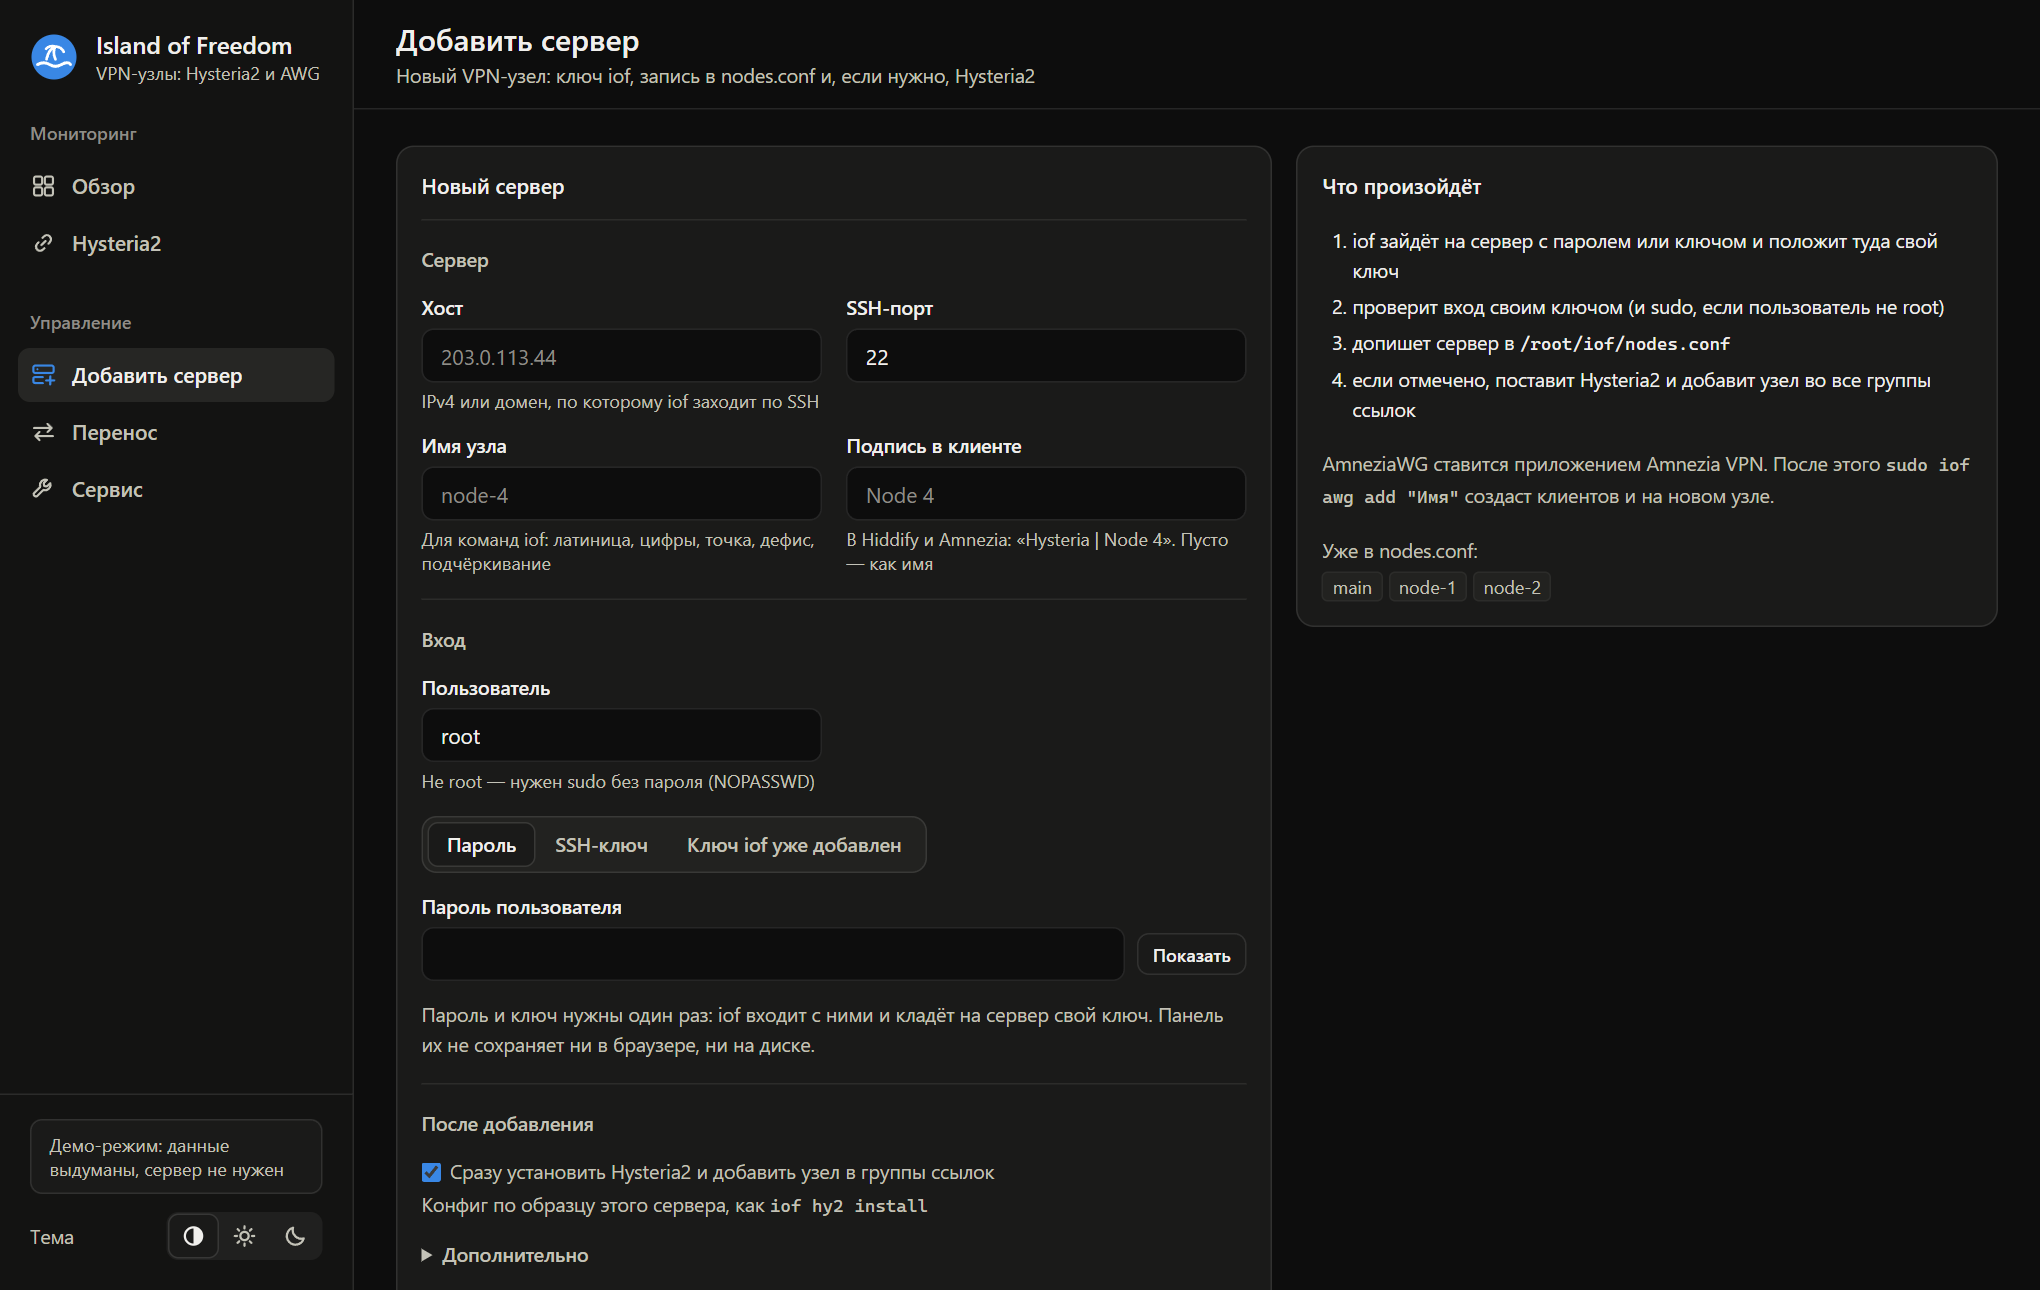
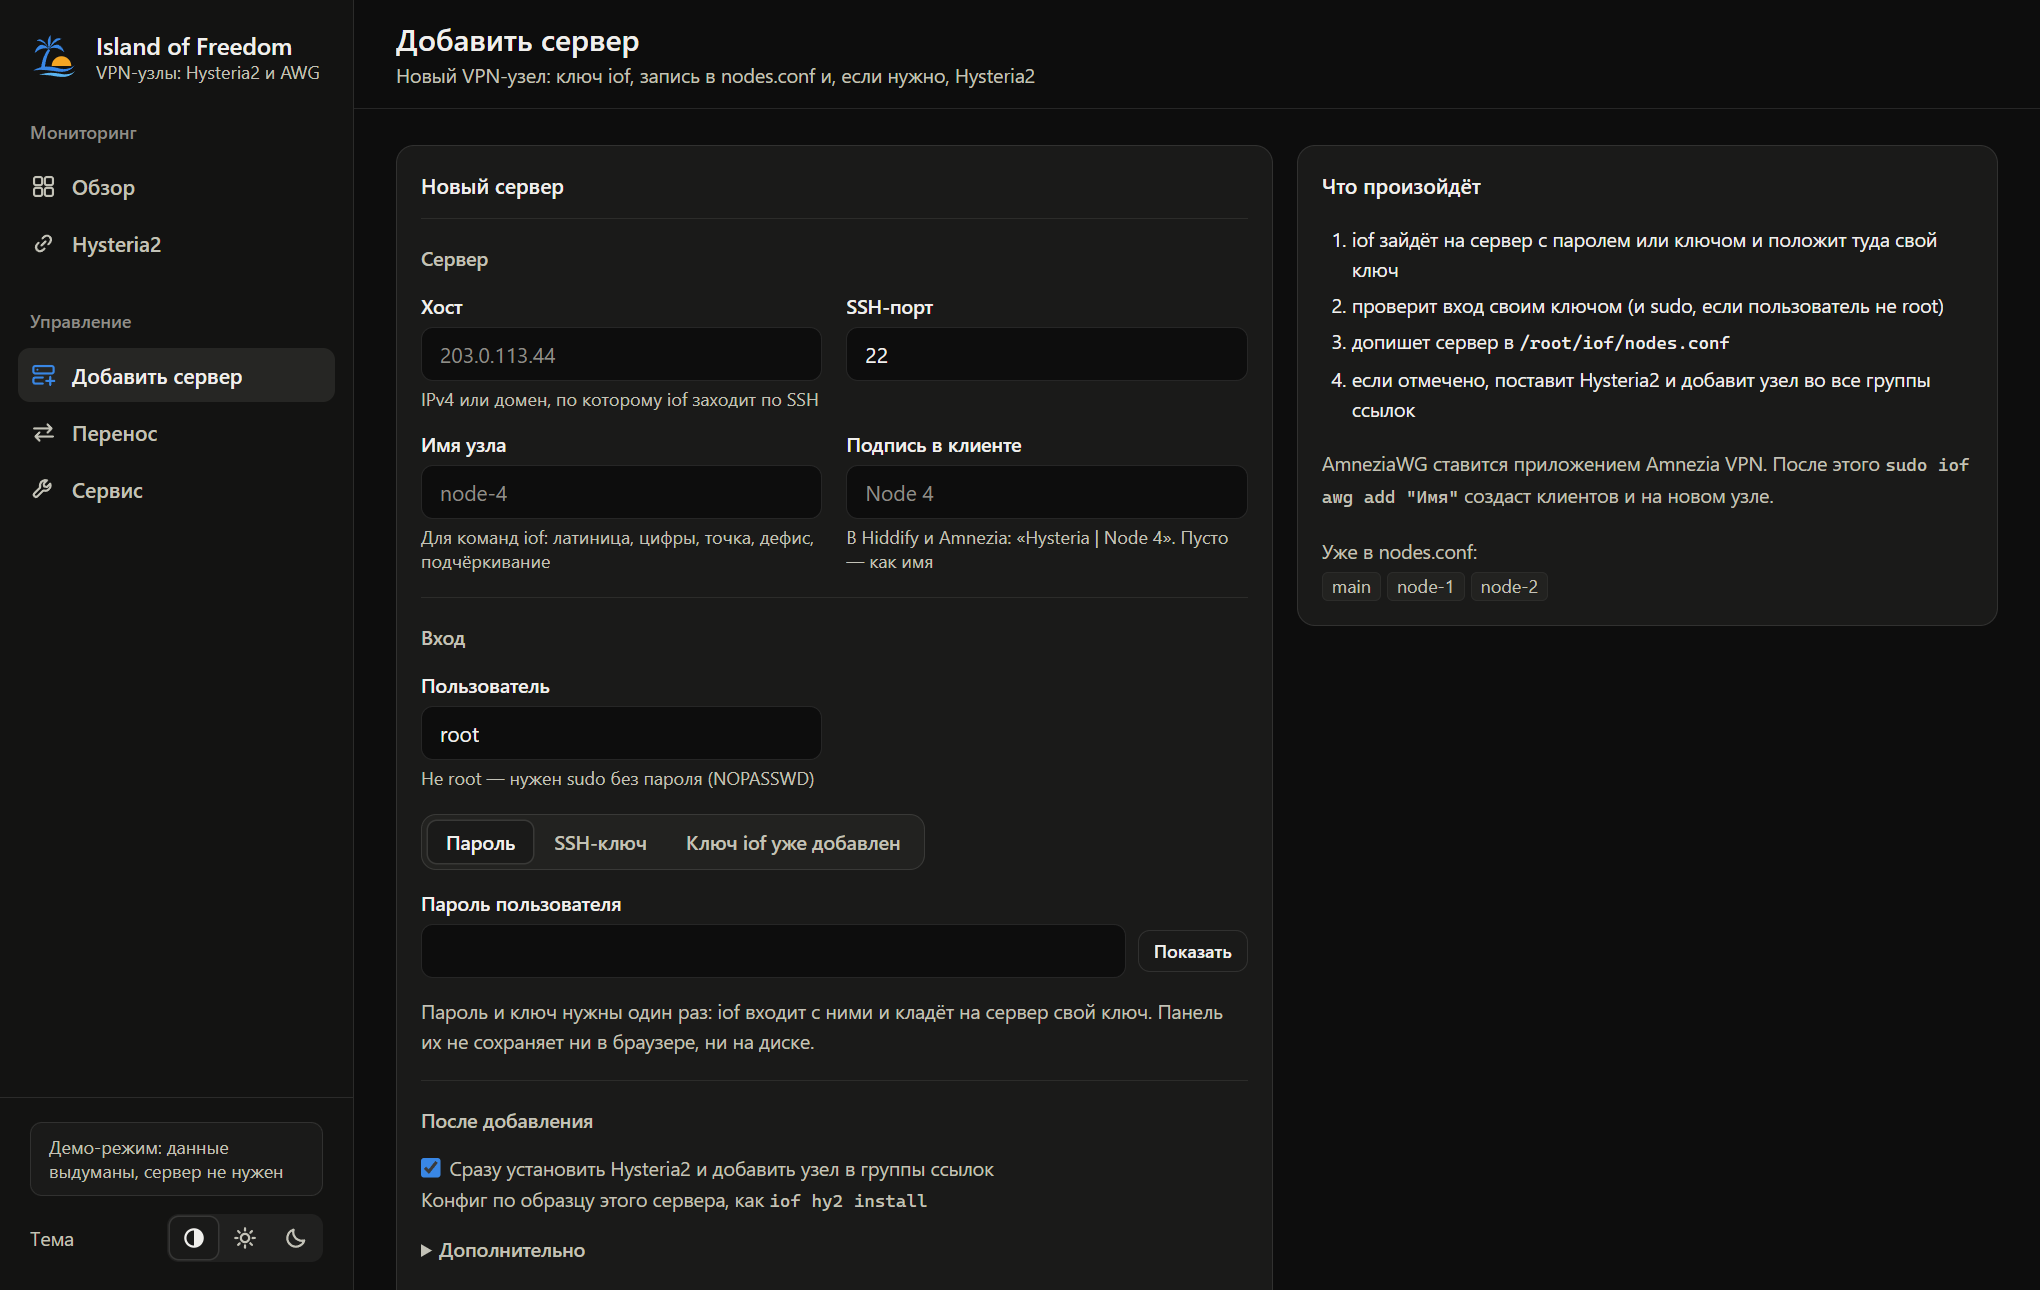
iof-web: новый логотип — пальма, солнце и волны
Логотип без надписей: пальма на острове, солнце над горизонтом и две волны.
Inline SVG во всех страницах красится классами: пальма и верхняя волна — --accent,
солнце и нижняя волна — новые --logo-sun и --logo-wave (одинаковы в обеих темах).
favicon.svg с теми же формами и вписанными цветами. design.md описывает логотип,
скриншоты README пересняты.

diff --git a/web/static/add.html b/web/static/add.html
@@ -13,10 +13,11 @@
   <div class="shell">
     <aside id="sidebar" class="sidebar">
       <a class="brand" href="./">
-        <svg class="logo" viewBox="0 0 32 32" aria-hidden="true">
-          <circle cx="16" cy="16" r="15" fill="var(--accent)"/>
-          <path d="M5 21c3-1.6 5.4-1.6 8 0s5.4 1.6 8 0 5.2-1.6 6 0" fill="none" stroke="#fff" stroke-width="2" stroke-linecap="round"/>
-          <path d="M11 17.5c1-4.5 3-7.5 6-8.5M17 9c-1.6 2.6-1.4 5.5 0 8.6M17 9c2.4.2 4.6 1.4 5.5 3.6M17 9c-2.6-.6-5 0-6.3 1.6" fill="none" stroke="#fff" stroke-width="1.8" stroke-linecap="round"/>
+        <svg class="logo" viewBox="0 0 64 64" aria-hidden="true">
+          <defs><clipPath id="logo-sky"><rect width="64" height="44"/></clipPath></defs>
+          <circle class="logo-sun" cx="42" cy="44" r="13" clip-path="url(#logo-sky)"/>
+          <path class="logo-palm" d="M14.4 48C15.8 37.5 18.6 28.5 24.2 21.4L27 22.8C22.2 30 20.2 39 19.6 48ZM25.5 21Q12 8 6 27Q15 18 25.5 21ZM25.5 21Q39 8 46 26Q37 17 25.5 21ZM25.5 21Q16 4 9 10Q19 11 25.5 21ZM25.5 21Q33 3 42 8Q31 12 25.5 21ZM25.5 21Q21 9 27.5 2.5Q28.5 13 25.5 21ZM4 50C16 43 28 44 38 47C46 49.5 54 48 60 43C55 50.5 46 53 37 51.5C27 50 16 48 4 50Z"/>
+          <path class="logo-wave" d="M12 56C22 52 32 52.5 41 54.5C48 56 55 55 60 51C56 57 48 59.5 40 58.5C31 57.5 22 55 12 56Z"/>
         </svg>
         <span><b>Island of Freedom</b><small>VPN-узлы: Hysteria2 и AWG</small></span>
       </a>

diff --git a/web/static/hy2.html b/web/static/hy2.html
@@ -14,10 +14,11 @@
   <div class="shell">
     <aside id="sidebar" class="sidebar">
       <a class="brand" href="./">
-        <svg class="logo" viewBox="0 0 32 32" aria-hidden="true">
-          <circle cx="16" cy="16" r="15" fill="var(--accent)"/>
-          <path d="M5 21c3-1.6 5.4-1.6 8 0s5.4 1.6 8 0 5.2-1.6 6 0" fill="none" stroke="#fff" stroke-width="2" stroke-linecap="round"/>
-          <path d="M11 17.5c1-4.5 3-7.5 6-8.5M17 9c-1.6 2.6-1.4 5.5 0 8.6M17 9c2.4.2 4.6 1.4 5.5 3.6M17 9c-2.6-.6-5 0-6.3 1.6" fill="none" stroke="#fff" stroke-width="1.8" stroke-linecap="round"/>
+        <svg class="logo" viewBox="0 0 64 64" aria-hidden="true">
+          <defs><clipPath id="logo-sky"><rect width="64" height="44"/></clipPath></defs>
+          <circle class="logo-sun" cx="42" cy="44" r="13" clip-path="url(#logo-sky)"/>
+          <path class="logo-palm" d="M14.4 48C15.8 37.5 18.6 28.5 24.2 21.4L27 22.8C22.2 30 20.2 39 19.6 48ZM25.5 21Q12 8 6 27Q15 18 25.5 21ZM25.5 21Q39 8 46 26Q37 17 25.5 21ZM25.5 21Q16 4 9 10Q19 11 25.5 21ZM25.5 21Q33 3 42 8Q31 12 25.5 21ZM25.5 21Q21 9 27.5 2.5Q28.5 13 25.5 21ZM4 50C16 43 28 44 38 47C46 49.5 54 48 60 43C55 50.5 46 53 37 51.5C27 50 16 48 4 50Z"/>
+          <path class="logo-wave" d="M12 56C22 52 32 52.5 41 54.5C48 56 55 55 60 51C56 57 48 59.5 40 58.5C31 57.5 22 55 12 56Z"/>
         </svg>
         <span><b>Island of Freedom</b><small>VPN-узлы: Hysteria2 и AWG</small></span>
       </a>

diff --git a/web/static/index.html b/web/static/index.html
@@ -14,10 +14,11 @@
   <div class="shell">
     <aside id="sidebar" class="sidebar">
       <a class="brand" href="./">
-        <svg class="logo" viewBox="0 0 32 32" aria-hidden="true">
-          <circle cx="16" cy="16" r="15" fill="var(--accent)"/>
-          <path d="M5 21c3-1.6 5.4-1.6 8 0s5.4 1.6 8 0 5.2-1.6 6 0" fill="none" stroke="#fff" stroke-width="2" stroke-linecap="round"/>
-          <path d="M11 17.5c1-4.5 3-7.5 6-8.5M17 9c-1.6 2.6-1.4 5.5 0 8.6M17 9c2.4.2 4.6 1.4 5.5 3.6M17 9c-2.6-.6-5 0-6.3 1.6" fill="none" stroke="#fff" stroke-width="1.8" stroke-linecap="round"/>
+        <svg class="logo" viewBox="0 0 64 64" aria-hidden="true">
+          <defs><clipPath id="logo-sky"><rect width="64" height="44"/></clipPath></defs>
+          <circle class="logo-sun" cx="42" cy="44" r="13" clip-path="url(#logo-sky)"/>
+          <path class="logo-palm" d="M14.4 48C15.8 37.5 18.6 28.5 24.2 21.4L27 22.8C22.2 30 20.2 39 19.6 48ZM25.5 21Q12 8 6 27Q15 18 25.5 21ZM25.5 21Q39 8 46 26Q37 17 25.5 21ZM25.5 21Q16 4 9 10Q19 11 25.5 21ZM25.5 21Q33 3 42 8Q31 12 25.5 21ZM25.5 21Q21 9 27.5 2.5Q28.5 13 25.5 21ZM4 50C16 43 28 44 38 47C46 49.5 54 48 60 43C55 50.5 46 53 37 51.5C27 50 16 48 4 50Z"/>
+          <path class="logo-wave" d="M12 56C22 52 32 52.5 41 54.5C48 56 55 55 60 51C56 57 48 59.5 40 58.5C31 57.5 22 55 12 56Z"/>
         </svg>
         <span><b>Island of Freedom</b><small>VPN-узлы: Hysteria2 и AWG</small></span>
       </a>

diff --git a/web/static/migrate.html b/web/static/migrate.html
@@ -13,10 +13,11 @@
   <div class="shell">
     <aside id="sidebar" class="sidebar">
       <a class="brand" href="./">
-        <svg class="logo" viewBox="0 0 32 32" aria-hidden="true">
-          <circle cx="16" cy="16" r="15" fill="var(--accent)"/>
-          <path d="M5 21c3-1.6 5.4-1.6 8 0s5.4 1.6 8 0 5.2-1.6 6 0" fill="none" stroke="#fff" stroke-width="2" stroke-linecap="round"/>
-          <path d="M11 17.5c1-4.5 3-7.5 6-8.5M17 9c-1.6 2.6-1.4 5.5 0 8.6M17 9c2.4.2 4.6 1.4 5.5 3.6M17 9c-2.6-.6-5 0-6.3 1.6" fill="none" stroke="#fff" stroke-width="1.8" stroke-linecap="round"/>
+        <svg class="logo" viewBox="0 0 64 64" aria-hidden="true">
+          <defs><clipPath id="logo-sky"><rect width="64" height="44"/></clipPath></defs>
+          <circle class="logo-sun" cx="42" cy="44" r="13" clip-path="url(#logo-sky)"/>
+          <path class="logo-palm" d="M14.4 48C15.8 37.5 18.6 28.5 24.2 21.4L27 22.8C22.2 30 20.2 39 19.6 48ZM25.5 21Q12 8 6 27Q15 18 25.5 21ZM25.5 21Q39 8 46 26Q37 17 25.5 21ZM25.5 21Q16 4 9 10Q19 11 25.5 21ZM25.5 21Q33 3 42 8Q31 12 25.5 21ZM25.5 21Q21 9 27.5 2.5Q28.5 13 25.5 21ZM4 50C16 43 28 44 38 47C46 49.5 54 48 60 43C55 50.5 46 53 37 51.5C27 50 16 48 4 50Z"/>
+          <path class="logo-wave" d="M12 56C22 52 32 52.5 41 54.5C48 56 55 55 60 51C56 57 48 59.5 40 58.5C31 57.5 22 55 12 56Z"/>
         </svg>
         <span><b>Island of Freedom</b><small>VPN-узлы: Hysteria2 и AWG</small></span>
       </a>

diff --git a/web/static/node.html b/web/static/node.html
@@ -16,10 +16,11 @@
   <div class="shell">
     <aside id="sidebar" class="sidebar">
       <a class="brand" href="./">
-        <svg class="logo" viewBox="0 0 32 32" aria-hidden="true">
-          <circle cx="16" cy="16" r="15" fill="var(--accent)"/>
-          <path d="M5 21c3-1.6 5.4-1.6 8 0s5.4 1.6 8 0 5.2-1.6 6 0" fill="none" stroke="#fff" stroke-width="2" stroke-linecap="round"/>
-          <path d="M11 17.5c1-4.5 3-7.5 6-8.5M17 9c-1.6 2.6-1.4 5.5 0 8.6M17 9c2.4.2 4.6 1.4 5.5 3.6M17 9c-2.6-.6-5 0-6.3 1.6" fill="none" stroke="#fff" stroke-width="1.8" stroke-linecap="round"/>
+        <svg class="logo" viewBox="0 0 64 64" aria-hidden="true">
+          <defs><clipPath id="logo-sky"><rect width="64" height="44"/></clipPath></defs>
+          <circle class="logo-sun" cx="42" cy="44" r="13" clip-path="url(#logo-sky)"/>
+          <path class="logo-palm" d="M14.4 48C15.8 37.5 18.6 28.5 24.2 21.4L27 22.8C22.2 30 20.2 39 19.6 48ZM25.5 21Q12 8 6 27Q15 18 25.5 21ZM25.5 21Q39 8 46 26Q37 17 25.5 21ZM25.5 21Q16 4 9 10Q19 11 25.5 21ZM25.5 21Q33 3 42 8Q31 12 25.5 21ZM25.5 21Q21 9 27.5 2.5Q28.5 13 25.5 21ZM4 50C16 43 28 44 38 47C46 49.5 54 48 60 43C55 50.5 46 53 37 51.5C27 50 16 48 4 50Z"/>
+          <path class="logo-wave" d="M12 56C22 52 32 52.5 41 54.5C48 56 55 55 60 51C56 57 48 59.5 40 58.5C31 57.5 22 55 12 56Z"/>
         </svg>
         <span><b>Island of Freedom</b><small>VPN-узлы: Hysteria2 и AWG</small></span>
       </a>

diff --git a/web/static/service.html b/web/static/service.html
@@ -14,10 +14,11 @@
   <div class="shell">
     <aside id="sidebar" class="sidebar">
       <a class="brand" href="./">
-        <svg class="logo" viewBox="0 0 32 32" aria-hidden="true">
-          <circle cx="16" cy="16" r="15" fill="var(--accent)"/>
-          <path d="M5 21c3-1.6 5.4-1.6 8 0s5.4 1.6 8 0 5.2-1.6 6 0" fill="none" stroke="#fff" stroke-width="2" stroke-linecap="round"/>
-          <path d="M11 17.5c1-4.5 3-7.5 6-8.5M17 9c-1.6 2.6-1.4 5.5 0 8.6M17 9c2.4.2 4.6 1.4 5.5 3.6M17 9c-2.6-.6-5 0-6.3 1.6" fill="none" stroke="#fff" stroke-width="1.8" stroke-linecap="round"/>
+        <svg class="logo" viewBox="0 0 64 64" aria-hidden="true">
+          <defs><clipPath id="logo-sky"><rect width="64" height="44"/></clipPath></defs>
+          <circle class="logo-sun" cx="42" cy="44" r="13" clip-path="url(#logo-sky)"/>
+          <path class="logo-palm" d="M14.4 48C15.8 37.5 18.6 28.5 24.2 21.4L27 22.8C22.2 30 20.2 39 19.6 48ZM25.5 21Q12 8 6 27Q15 18 25.5 21ZM25.5 21Q39 8 46 26Q37 17 25.5 21ZM25.5 21Q16 4 9 10Q19 11 25.5 21ZM25.5 21Q33 3 42 8Q31 12 25.5 21ZM25.5 21Q21 9 27.5 2.5Q28.5 13 25.5 21ZM4 50C16 43 28 44 38 47C46 49.5 54 48 60 43C55 50.5 46 53 37 51.5C27 50 16 48 4 50Z"/>
+          <path class="logo-wave" d="M12 56C22 52 32 52.5 41 54.5C48 56 55 55 60 51C56 57 48 59.5 40 58.5C31 57.5 22 55 12 56Z"/>
         </svg>
         <span><b>Island of Freedom</b><small>VPN-узлы: Hysteria2 и AWG</small></span>
       </a>

diff --git a/web/static/app.css b/web/static/app.css
@@ -31,6 +31,9 @@
   --term-fg: #f0efec;
   --term-cursor: #f0efec;
   --term-sel: rgba(57, 135, 229, 0.4);
+  /* Логотип: пальма и верхняя волна — --accent, солнце и нижняя волна одинаковы в обеих темах */
+  --logo-sun: #f5a623;
+  --logo-wave: #5ab4f0;
   /* Каркас: ширина бокового меню, поля и ширина содержимого */
   --side-w: 236px;
   --gutter: 28px;
@@ -121,6 +124,9 @@ code, .mono { font-family: var(--mono); font-size: 12px; }
   color: inherit; text-decoration: none;
 }
 .logo { width: 32px; height: 32px; flex: none; }
+.logo-palm { fill: var(--accent); }
+.logo-sun { fill: var(--logo-sun); }
+.logo-wave { fill: var(--logo-wave); }
 .brand b { display: block; font-size: 16px; font-weight: 600; line-height: 20px; }
 .brand small { display: block; font-size: 12px; line-height: 16px; color: var(--ink-2); }
 

diff --git a/web/design.md b/web/design.md
@@ -72,6 +72,20 @@
 | `--term-cursor` | `#f0efec` | курсор |
 | `--term-sel` | `rgba(57,135,229,.4)` | выделение (`--accent` тёмной темы, 40%) |
 
+### Логотип
+
+Пальма на острове, солнце над горизонтом и две волны, без надписей. Он нарисован inline SVG в каждом html
+(`viewBox="0 0 64 64"`, показ 32px) и повторён в `favicon.svg` с вписанными цветами. Части красятся классами.
+
+| Часть | Класс | Цвет |
+|---|---|---|
+| пальма и верхняя волна | `.logo-palm` | `--accent`: в тёмной теме светлее |
+| солнце | `.logo-sun` | `--logo-sun` `#f5a623`, обе темы |
+| нижняя волна | `.logo-wave` | `--logo-wave` `#5ab4f0`, обе темы |
+
+`--logo-sun` и `--logo-wave` заданы один раз на `:root`, как цвета терминала: в тёмных блоках их нет.
+Нигде, кроме логотипа, эти цвета не используются. Меняешь логотип — меняй во всех html и в `favicon.svg`.
+
 ### Оттенки через `color-mix`
 
 | Где | Формула |
@@ -86,9 +100,9 @@
 
 | Цвет | Где |
 |---|---|
-| `#fff` | текст основной кнопки, линии логотипа, крестик в иконке `crit` |
+| `#fff` | текст основной кнопки, крестик в иконке `crit` |
 | `#fff` | фон QR-кода в обеих темах: тёмный фон сканеры читают плохо |
-| `#2a78d6` | `favicon.svg`: в нём нельзя использовать переменные, это `--accent` светлой темы |
+| `#2a78d6`, `#f5a623`, `#5ab4f0` | `favicon.svg`: в нём нельзя использовать переменные, это `--accent` светлой темы, `--logo-sun` и `--logo-wave` |
 | `rgba(0,0,0,.4)` | затемнение под выезжающим меню (`.scrim`) |
 | `rgba(0,0,0,.45)` | затемнение под окном QR (`.qr-dialog::backdrop`) |
 | `0 12px 40px rgba(0,0,0,.25)` | тень выезжающего меню |
